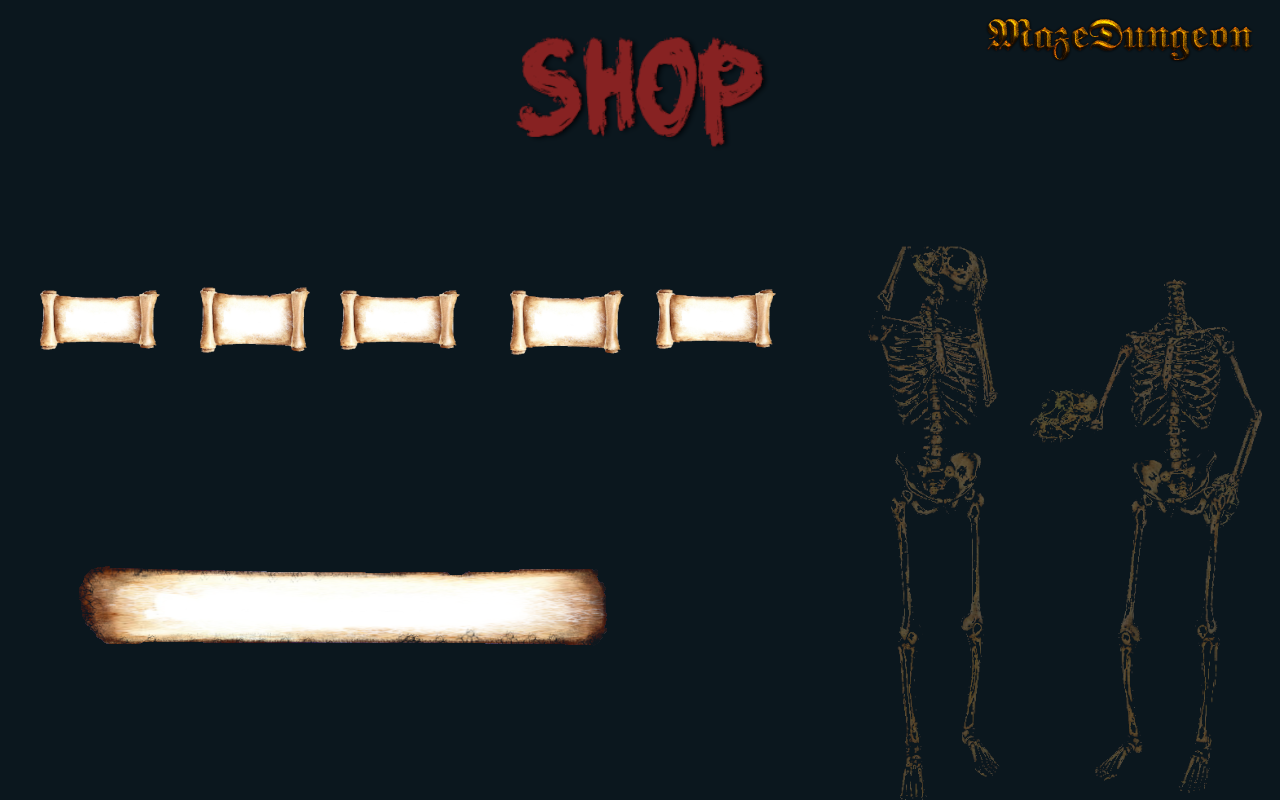
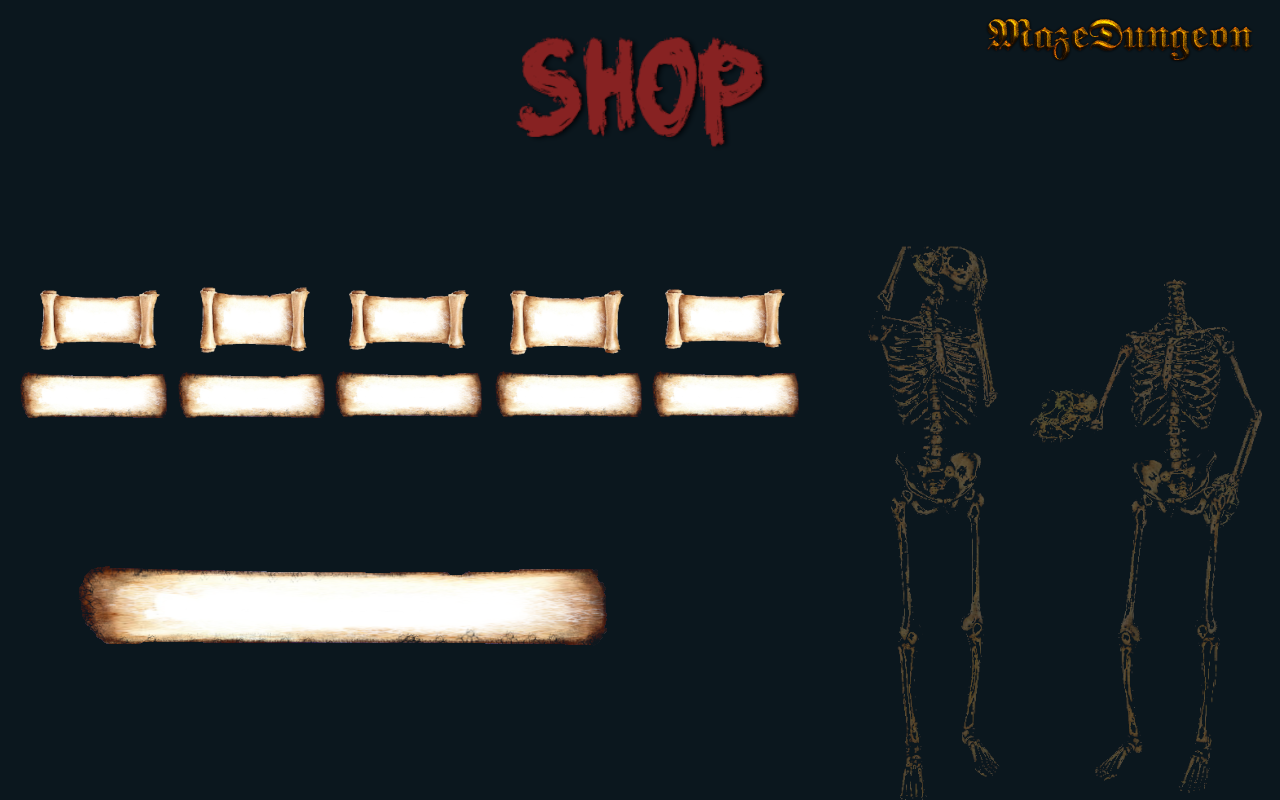
Add Item message, and change font

Changed region(s): [[0.0, 0.4688, 0.625, 0.5312], [0.5, 0.3438, 0.625, 0.4375], [0.25, 0.3438, 0.375, 0.4375]]

diff --git a/src/gamestructure/ingamemenu/InGameMenuViewImpl.java b/src/gamestructure/ingamemenu/InGameMenuViewImpl.java
@@ -19,9 +19,6 @@ import gamestructure.ingamemenu.utilities.Images;
 import model.shop.Items;
 
 public class InGameMenuViewImpl implements InGameMenuView  {
-    
-    //private final JLayeredPane backGroundPanel = new JLayeredPane();
-    
     private static final int SIZE_IMAGE_ITEM = 100;
     private static final double WIDTH_RATIO = 0.67; 
     private static final double HEIGHT_RATIO = 0.736;
@@ -34,22 +31,17 @@ public class InGameMenuViewImpl implements InGameMenuView  {
     private final Dimension screen = Toolkit.getDefaultToolkit().getScreenSize();
 
     private final ImageLoader  imageIconSources = new ImageLoader();
-
     private final JLabel lblBackgroundMenu = new JLabel(imageIconSources.getImage(Images.BACKGROUNDMENU));
+    private final JLabel lblBackgroundShop = new JLabel(imageIconSources.getImage(Images.BACKGROUNDSHOP));
     private final JButton btnResumeMenu = new JButton("", imageIconSources.getImage(Images.BTNRESUME));
     private final JButton btnExitMenu = new JButton("", imageIconSources.getImage(Images.BTNEXIT)); 
     private final JButton btnShopMenu = new JButton("", imageIconSources.getImage(Images.BTNSHOP)); 
-
     private final JButton btnArthemideBowItem = new JButton("", imageIconSources.getImage(Images.BTNARTHEMIDEBOW)); 
     private final JButton btnHermesBootsItem = new JButton("", imageIconSources.getImage(Images.BTNHERMESBOOTS)); 
     private final JButton btnZeusBoltItem = new JButton("", imageIconSources.getImage(Images.BTNZEUSBOLT)); 
     private final JButton btnHealthItem = new JButton("", imageIconSources.getImage(Images.BTNHEALTH)); 
     private final JButton btnOracleAmulet = new JButton("", imageIconSources.getImage(Images.BTNORACLEAMULET)); 
-
     private final JButton btnBackToMenu = new JButton("", imageIconSources.getImage(Images.BTNRETURNMENU)); 
-
-    private final JLabel lblBackgroundShop = new JLabel(imageIconSources.getImage(Images.BACKGROUNDSHOP));
-
     private final JPanel inGameMenuPanel = new JPanel(new GridBagLayout());
     private final JPanel shopPanel = new JPanel(new GridBagLayout());
     private final JLabel msg = new JLabel();
@@ -62,11 +54,9 @@ public class InGameMenuViewImpl implements InGameMenuView  {
         this.frame.setResizable(false);
         this.frame.setSize(new Dimension((int) (screen.getWidth() * WIDTH_RATIO), 
                 (int) (screen.getHeight() * HEIGHT_RATIO)));
-
         inGameMenuPanel.add(lblBackgroundMenu);
         shopPanel.add(lblBackgroundShop);
         this.frame.setTitle("MazeDungeon");
-        showInGameMenu();
     }
     /**
      * 
@@ -81,30 +71,24 @@ public class InGameMenuViewImpl implements InGameMenuView  {
         btnBackToMenu.addActionListener(e -> {
             this.controller.openInGameMenu();
         });
-
         btnArthemideBowItem.setBounds(45, 180, SIZE_IMAGE_ITEM, SIZE_IMAGE_ITEM);
         this.configureButton(btnArthemideBowItem);
         this.lblBackgroundShop.add(btnArthemideBowItem);
         btnArthemideBowItem.addActionListener(e -> {
             this.controller.buyItem(Items.ARTHEMIDEBOW);
         });
-
-
         btnHermesBootsItem.setBounds(208, 175, SIZE_IMAGE_ITEM, SIZE_IMAGE_ITEM);
         this.configureButton(btnHermesBootsItem);
         this.lblBackgroundShop.add(btnHermesBootsItem);
         btnHermesBootsItem.addActionListener(e -> {
             this.controller.buyItem(Items.HERMESBOOTS);
         });
-
-
         btnZeusBoltItem.setBounds(350, 190, SIZE_IMAGE_ITEM, SIZE_IMAGE_ITEM);
         this.configureButton(btnZeusBoltItem);
         this.lblBackgroundShop.add(btnZeusBoltItem);
         btnZeusBoltItem.addActionListener(e -> {
             this.controller.buyItem(Items.ZEUSBOLT);
         });
-
         btnHealthItem.setBounds(510, 180, SIZE_IMAGE_ITEM, SIZE_IMAGE_ITEM);
         this.configureButton(btnHealthItem);
         this.lblBackgroundShop.add(btnHealthItem);
@@ -118,47 +102,13 @@ public class InGameMenuViewImpl implements InGameMenuView  {
             this.controller.buyItem(Items.ORACLEAMULET);
         });
 
-        final JLabel labelPriceArthemideBow = new JLabel(priceArthemideBow);
-        labelPriceArthemideBow.setBounds(90, 310, 25, 25);
-        this.lblBackgroundShop.add(labelPriceArthemideBow);
-        //priceArthemideBow.setText(PRICE_ARTHEMIDEBOW);
-        labelPriceArthemideBow.setVisible(true);
-        //priceArthemideBow.setForeground(Color.black);
-        labelPriceArthemideBow.setFont(new Font("", Font.PLAIN, 25));
-
-        final JLabel labelPriceHermesBoots = new JLabel(priceHermesBoots);
-        labelPriceHermesBoots.setBounds(250, 310, 25, 25);
-        this.lblBackgroundShop.add(labelPriceHermesBoots);
-        labelPriceHermesBoots.setVisible(true);
-        labelPriceHermesBoots.setFont(new Font("", Font.PLAIN, 25));
-
-        final JLabel labelPriceZeusBolt = new JLabel(priceZeusBolth);
-        labelPriceZeusBolt.setBounds(390, 310, 25, 25);
-        this.lblBackgroundShop.add(labelPriceZeusBolt);
-        labelPriceZeusBolt.setVisible(true);
-        labelPriceZeusBolt.setFont(new Font("", Font.PLAIN, 25));
-
-        final JLabel labelPriceHealth = new JLabel(priceHelath);
-        labelPriceHealth.setBounds(560, 310, 25, 25);
-        this.lblBackgroundShop.add(labelPriceHealth);
-        labelPriceHealth.setVisible(true);
-        labelPriceHealth.setFont(new Font("", Font.PLAIN, 25));
-
-        final JLabel labelPriceOracleAmulet = new JLabel(priceOracleAmulet);
-        labelPriceOracleAmulet.setBounds(710, 310, 25, 25);
-        this.lblBackgroundShop.add(labelPriceOracleAmulet);
-        labelPriceOracleAmulet.setVisible(true);
-        labelPriceOracleAmulet.setFont(new Font("", Font.PLAIN, 25));
-
-       this.show();
+        this.showPrice();
+        this.showItemInformation();
+        this.show();
     }
-    /**
-     * 
-     */
+
     public void showInGameMenu() {
-
         this.frame.remove(shopPanel);
-
         this.frame.setContentPane(inGameMenuPanel);
 
         btnResumeMenu.setBounds((int) (screen.getWidth()/4), 340, 300, 90);
@@ -168,23 +118,18 @@ public class InGameMenuViewImpl implements InGameMenuView  {
            // System.out.println("Premuto");
             this.controller.resume();
         });
-
         btnShopMenu.setBounds((int) (screen.getWidth()/4), 433, 300, 90);
         this.configureButton(btnShopMenu);
         this.lblBackgroundMenu.add(btnShopMenu);
         btnShopMenu.addActionListener(e -> {
             this.controller.openShop();
-            //System.out.println("Count of listeners: " + ((JButton) e.getSource()).getActionListeners().length);
-            //System.out.println("priva");
         });
-
         btnExitMenu.setBounds((int) (screen.getWidth()/4), 523, 300, 90);
         this.configureButton(btnExitMenu);
         this.lblBackgroundMenu.add(btnExitMenu);
         btnExitMenu.addActionListener(e -> {
             this.controller.exit();
         });
-
         if (start) {
             this.show();
         }
@@ -207,21 +152,18 @@ public class InGameMenuViewImpl implements InGameMenuView  {
     }
 
     private void configureButton(final JButton btn) {
-
         btn.setBackground(new Color(11,23,30,255));
         btn.setBorder(new LineBorder(new Color(11,23,30,255))); //Colore del bordo del bottone
         btn.setFocusPainted(false); //Disabilita il paint del focus sul testo del bottone
-
-
     }
 
     /**
      * 
      */
     public void returnMessage(final String messageOuput) {
-
-        msg.setBounds(250, 580, 350, 50);
+        msg.setBounds(150, 580, 420, 50);
         this.lblBackgroundShop.add(msg);
+        msg.setFont(new Font("Algerian", Font.ITALIC, 20));
         msg.setText(messageOuput);
         msg.setVisible(true);
     }
@@ -231,12 +173,77 @@ public class InGameMenuViewImpl implements InGameMenuView  {
     public void removeMessage() {
         msg.setText("");
     }
-    public void setPriceItem(Map<Items, Integer> map) {
+
+    /**
+     * 
+     */
+    public void setPriceItem(final Map<Items, Integer> map) {
         priceArthemideBow = map.get(Items.ARTHEMIDEBOW).toString();
         priceHermesBoots = map.get(Items.HERMESBOOTS).toString();
         priceZeusBolth = map.get(Items.ZEUSBOLT).toString();
         priceHelath = map.get(Items.HEALTH).toString();
         priceOracleAmulet = map.get(Items.ORACLEAMULET).toString();
+    }
+    private void showPrice() {
+        final JLabel labelPriceArthemideBow = new JLabel(priceArthemideBow);
+        labelPriceArthemideBow.setBounds(90, 310, 25, 25);
+        this.lblBackgroundShop.add(labelPriceArthemideBow);
+        //labelPriceArthemideBow.setVisible(true);
+        labelPriceArthemideBow.setFont(new Font("Algerian", Font.ITALIC, 25));
+
+        final JLabel labelPriceHermesBoots = new JLabel(priceHermesBoots);
+        labelPriceHermesBoots.setBounds(250, 310, 25, 25);
+        this.lblBackgroundShop.add(labelPriceHermesBoots);
+        //labelPriceHermesBoots.setVisible(true);
+        labelPriceHermesBoots.setFont(new Font("Algerian", Font.ITALIC, 25));
+
+        final JLabel labelPriceZeusBolt = new JLabel(priceZeusBolth);
+        labelPriceZeusBolt.setBounds(390, 310, 25, 25);
+        this.lblBackgroundShop.add(labelPriceZeusBolt);
+        //labelPriceZeusBolt.setVisible(true);
+        labelPriceZeusBolt.setFont(new Font("", Font.PLAIN, 25));
+        labelPriceZeusBolt.setFont(new Font("Algerian", Font.ITALIC, 25));
+
+        final JLabel labelPriceHealth = new JLabel(priceHelath);
+        labelPriceHealth.setBounds(560, 310, 25, 25);
+        this.lblBackgroundShop.add(labelPriceHealth);
+        //labelPriceHealth.setVisible(true);
+        labelPriceHealth.setFont(new Font("", Font.PLAIN, 25));
+        labelPriceHealth.setFont(new Font("Algerian", Font.ITALIC, 25));
+
+        final JLabel labelPriceOracleAmulet = new JLabel(priceOracleAmulet);
+        labelPriceOracleAmulet.setBounds(710, 310, 25, 25);
+        this.lblBackgroundShop.add(labelPriceOracleAmulet);
+        //labelPriceOracleAmulet.setVisible(true);
+        labelPriceOracleAmulet.setFont(new Font("", Font.PLAIN, 25));
+        labelPriceOracleAmulet.setFont(new Font("Algerian", Font.ITALIC, 25));
+    }
+    private void showItemInformation() {
+        final int sizeFont = 15;
+        final int widthLabel = 140;
+        final int heightLabel = 20;
+
+        final JLabel labelInfoArthemideBow = new JLabel("+ damage");
+        labelInfoArthemideBow.setBounds(45, 385, widthLabel, heightLabel);
+        this.lblBackgroundShop.add(labelInfoArthemideBow);
+        labelInfoArthemideBow.setFont(new Font("Algerian", Font.ITALIC, sizeFont));
+
+        final JLabel labelInfoHermesBoots = new JLabel("+ speed");
+        labelInfoHermesBoots.setBounds(205, 385, widthLabel, heightLabel);
+        this.lblBackgroundShop.add(labelInfoHermesBoots);
+        labelInfoHermesBoots.setFont(new Font("Algerian", Font.ITALIC, sizeFont));
+        final JLabel labelInfoZeusBolt = new JLabel("+ bullet speed");
+        labelInfoZeusBolt.setBounds(355, 385, widthLabel, heightLabel);
+        this.lblBackgroundShop.add(labelInfoZeusBolt);
+        labelInfoZeusBolt.setFont(new Font("Algerian", Font.ITALIC, sizeFont));
+        final JLabel labelInfoHealth = new JLabel("+ health");
+        labelInfoHealth.setBounds(520, 385, widthLabel, heightLabel);
+        this.lblBackgroundShop.add(labelInfoHealth);
+        labelInfoHealth.setFont(new Font("Algerian", Font.ITALIC, sizeFont));
+        final JLabel labelInfoOracleAmulet = new JLabel("+ everything");
+        labelInfoOracleAmulet.setBounds(665, 385, widthLabel, heightLabel);
+        this.lblBackgroundShop.add(labelInfoOracleAmulet);
+        labelInfoOracleAmulet.setFont(new Font("Algerian", Font.ITALIC, sizeFont));
     }
 
 }

diff --git a/src/model/shop/ShopImpl.java b/src/model/shop/ShopImpl.java
@@ -6,20 +6,17 @@ import java.util.Map;
 import java.util.Set;
 
 import model.gameobject.dinamicobject.character.Character;
-import mvc.Model;
-
-
 
 public class ShopImpl implements Shop {
-    private static final double MORE_HEALTH = 15;
+    private static final double MORE_HEALTH = 25;
     private static final int MORE_DAMAGE = 15;
     private static final int MORE_SPEED = 150;
     private static final int MORE_BULLETSPEED = 3;
     private static final int PRICE_ARTHEMIDEBOW = 0;
-    private static final int PRICE_HERMESBOOTS = 0;
-    private static final int PRICE_ZEUSBOLT = 0;
-    private static final int PRICE_HEALTH = 0;
-    private static final int PRICE_ORACLEAMULET = 0;
+    private static final int PRICE_HERMESBOOTS = 3;
+    private static final int PRICE_ZEUSBOLT = 3;
+    private static final int PRICE_HEALTH = 2;
+    private static final int PRICE_ORACLEAMULET = 7;
 
     private final Set<Items> purchasedItems = new HashSet<>();
     private final Set<Items> cart = new HashSet<>();
@@ -27,40 +24,24 @@ public class ShopImpl implements Shop {
 
     private final String msgBought;
     private final String msgNoMoney;
-    //private int actualMoney;
-    //private final double actualLife;
-    //private final double maxLife;
     private final Character character;
     public ShopImpl(final Character character) {
         this.character = character;
-        //this.actualMoney = actualMoney;
         msgBought = "You bought this item! You have coins: ";
         msgNoMoney = "You don't have enough coins!";
-       // this.actualLife = character.getLife();
-        //this.actualMoney = character.getMoney();
     }
     /**
      * @return .
      */
     private void addSkills(final Item item) {
-       // System.out.println(this.character.getDamage()+"danno prima");
-        System.out.println(this.character.getBonusDamage() + " DANNO prima");
         this.character.setBonusDamage(this.character.getBonusDamage() + item.getDamage());
-        System.out.println(this.character.getBonusDamage() + " DANNO dopo");
-        //System.out.println(this.character.getDamage() +"danno dopo");
-        System.out.println(this.character.getSpeed()+" VELOCITA prima");
         this.character.setSpeed(this.character.getSpeed() + item.getSpeed());
-        System.out.println(this.character.getSpeed()+" VELOCITA dopo");
-        
-        System.out.println(this.character.getBulletSpeed()+" VELOCITA BULLET prima");
         this.character.setBulletSpeed(this.character.getBulletSpeed() + item.getBulletSpeed());
-        System.out.println(this.character.getBulletSpeed()+" VELOCITA BULLET dopo");
-        //System.out.println(this.character.getLife() + " VITA PRIMA");
-        System.out.println(this.character.getLife()+" LIFE prima");
-        this.character.setLife(this.character.getLife() + item.getHealth());
-        System.out.println(this.character.getLife()+" LIFE dopo");
-        //System.out.println(this.character.getLife() + " VITA");
-        //c.setMoney(actualMoney);
+        if (this.character.getLife() + item.getHealth() > this.character.getMaxLife()) {
+            this.character.setLife(this.character.getMaxLife());
+        } else {
+            this.character.setLife(this.character.getLife() + item.getHealth());
+        }
         this.character.addItem(item);
 
     }
@@ -78,10 +59,6 @@ public class ShopImpl implements Shop {
             this.messageOuput = "You already have this item";
             return false;
         }
-        /*if (actualMoney == 0) {
-            messageOuput = msgNoMoney;
-            return false;
-        }*/
         switch (i) {
             case ARTHEMIDEBOW:
                 if (this.getArthemideBow().getCost() <= this.character.getMoney()) {
@@ -118,7 +95,7 @@ public class ShopImpl implements Shop {
                 break;
             case HEALTH:
                 if (this.getHealth().getCost() <= this.character.getMoney()) {
-                    if (this.character.getLife() + this.getHealth().getHealth() > this.character.getMaxLife()) {
+                    if (this.character.getLife() == this.character.getMaxLife()) {
                         this.messageOuput = "You have too much life!";
                         return false;
                     }
@@ -131,10 +108,6 @@ public class ShopImpl implements Shop {
                 break;
             case ORACLEAMULET:
                 if (this.getOracleAmulet().getCost() <= this.character.getMoney()) {
-                    /*if (this.actualLife + this.getHealth().getHealth() > maxLife) {
-                        this.messageOuput = "You have too much life!";
-                        return false;
-                    }*/
                     this.character.setMoney(this.character.getMoney() - this.getOracleAmulet().getCost());
                     this.purchasedItems.add(i);
                     this.cart.add(i);
@@ -158,12 +131,6 @@ public class ShopImpl implements Shop {
     public String getMessageOuput() {
         return messageOuput;
     }
-    /**
-     * @return .
-     */
-    /*public int moneyLeft() {
-        return actualMoney;
-    }*/
 
     /**
      * @return .

diff --git a/src/gamestructure/ingamemenu/InGameMenuControllerImpl.java b/src/gamestructure/ingamemenu/InGameMenuControllerImpl.java
@@ -22,6 +22,7 @@ public class InGameMenuControllerImpl implements InGameMenuController {
     public InGameMenuControllerImpl(final GameController gameController, final Model model) {
         this.gameController = gameController;
         this.shopModel = model.getShop();
+        this.openInGameMenu();
     }
 
     /**
